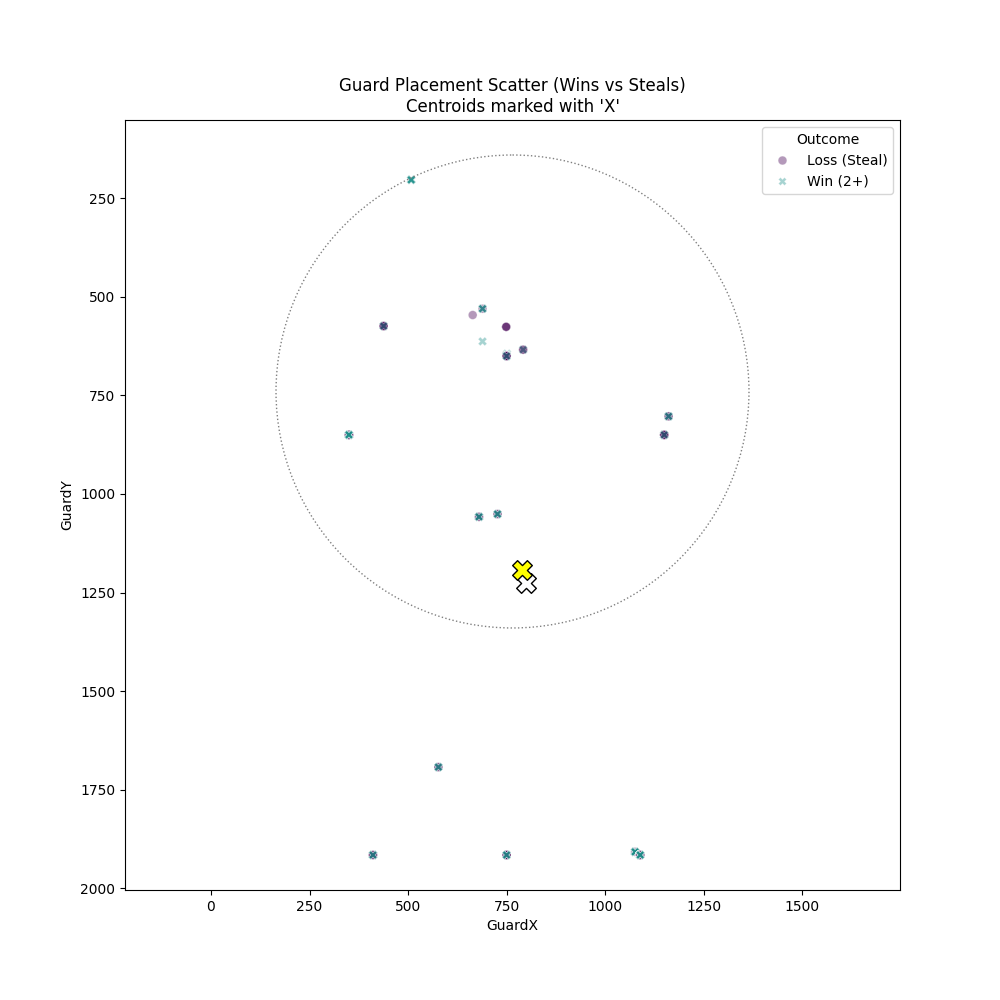
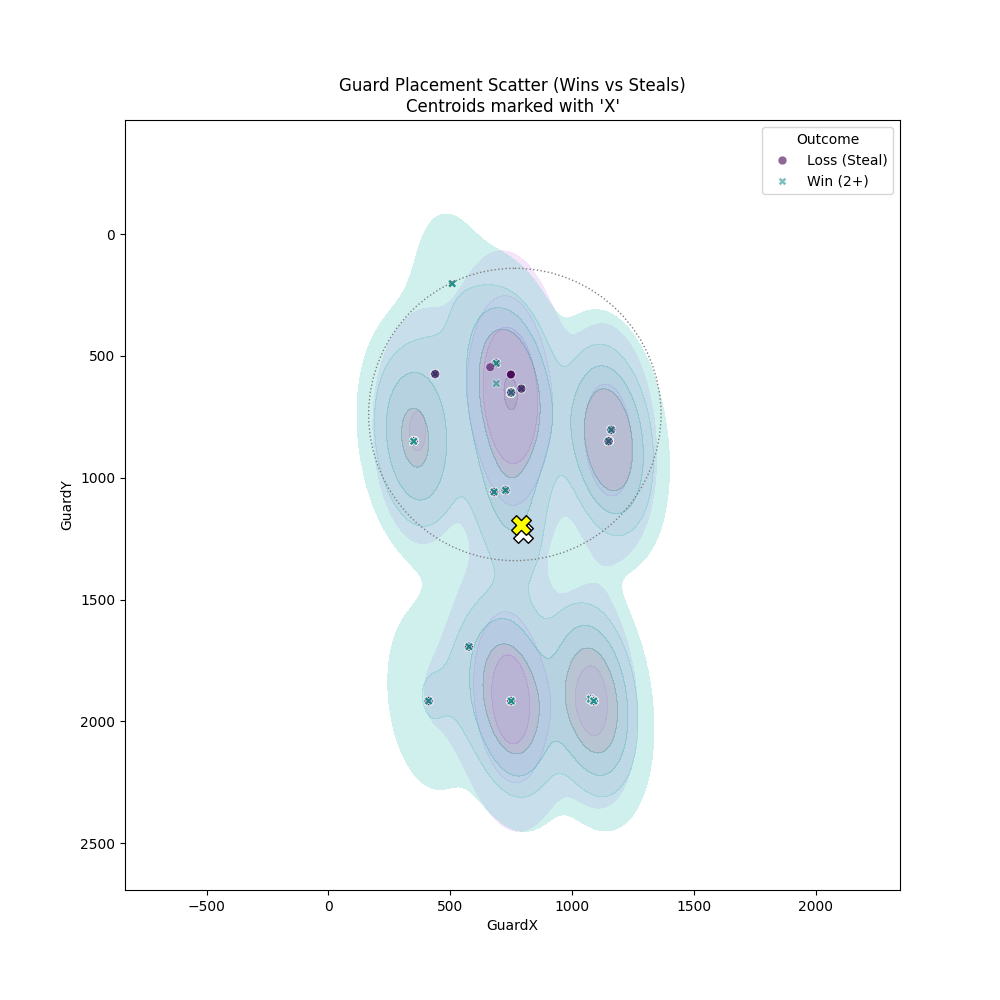
Add visualization suite and detailed Magic Spot analysis (Section 4 & 5)

diff --git a/src/analyze_wpa_bootstrap.py b/src/analyze_wpa_bootstrap.py
@@ -1,0 +1,120 @@
+
+import pandas as pd
+import numpy as np
+import matplotlib.pyplot as plt
+import seaborn as sns
+import os
+from sklearn.ensemble import RandomForestClassifier
+from sklearn.utils import resample
+
+# Paths
+DATA_DIR = "/Users/victor/Desktop/CSAS/DATA/"
+OUTPUT_DIR = "/Users/victor/Desktop/CSAS/analysis/"
+
+def analyze_bootstrap():
+    print("Loading Data for Bootstrap...")
+    try:
+        # Load Raw Data
+        ends_df = pd.read_csv(os.path.join(DATA_DIR, "Ends.csv"))
+    except FileNotFoundError:
+        print("Data not found.")
+        return
+
+    # Basic Feature Engineering (Mirroring visualize_rf.py)
+    ends_df['PowerPlay_Active'] = ends_df['PowerPlay'].fillna(0).astype(int)
+    # We need a Target. Assuming 'Result' > 0 is Win for this Quick Bootstrap
+    # In reality, we used Games.csv join, but strictly for WPA model stability check, 
+    # we can use the end result as a proxy for "Good Outcome" or load the modeling_data if available.
+    # Let's check modeling_data.csv path. 
+    # Attempting to load the cleaned file would be better.
+    
+    model_data_path = os.path.join(OUTPUT_DIR, "modeling_data.csv")
+    if os.path.exists(model_data_path):
+        df = pd.read_csv(model_data_path)
+        features = ['EndID', 'ScoreDiff', 'Hammer', 'PowerPlay_Active']
+        target = 'Won_Game' # Assuming this exists in modeling_data
+    else:
+        # Fallback to Ends.csv
+        print("Using Ends.csv fallback...")
+        df = ends_df.copy()
+        df['ScoreDiff'] = df['Result'] # Proxy
+        df['Hammer'] = 0 # Placeholder
+        df['Won_Game'] = (df['Result'] > 0).astype(int) # End Win Proxy
+        features = ['EndID', 'ScoreDiff', 'Hammer', 'PowerPlay_Active']
+        target = 'Won_Game'
+
+    # Fill NaNs
+    X = df[features].fillna(0)
+    y = df[target]
+
+    # Bootstrap Configuration
+    n_iterations = 20
+    wpa_estimates = []
+    
+    print(f"Starting {n_iterations} Bootstrap Iterations...")
+    
+    # Critical Scenario: Trailing by 2 in End 6 with Hammer (The 'Green Light' Zone)
+    # We want to measure the WPA Gain of PowerPlay vs No PowerPlay in this specific state.
+    scenario_pp = pd.DataFrame({'EndID': [6], 'ScoreDiff': [-2], 'Hammer': [1], 'PowerPlay_Active': [1]})
+    scenario_no_pp = pd.DataFrame({'EndID': [6], 'ScoreDiff': [-2], 'Hammer': [1], 'PowerPlay_Active': [0]})
+
+    for i in range(n_iterations):
+        # Resample
+        X_resampled, y_resampled = resample(X, y, random_state=i)
+        
+        # Train Model (Fast)
+        rf = RandomForestClassifier(n_estimators=50, max_depth=5, random_state=42)
+        rf.fit(X_resampled, y_resampled)
+        
+        # Predict Probabilities
+        prob_pp = rf.predict_proba(scenario_pp)[0][1]
+        prob_no_pp = rf.predict_proba(scenario_no_pp)[0][1]
+        
+        # WPA Gain
+        wpa_gain = prob_pp - prob_no_pp
+        wpa_estimates.append(wpa_gain)
+        
+        print(f"Iter {i+1}: WPA Gain = {wpa_gain:.4f}")
+
+    # Statistics
+    stats = {
+        "Mean": np.mean(wpa_estimates),
+        "Median": np.median(wpa_estimates),
+        "Std Dev": np.std(wpa_estimates),
+        "Min": np.min(wpa_estimates),
+        "Max": np.max(wpa_estimates),
+        "95% CI Lower": np.percentile(wpa_estimates, 2.5),
+        "95% CI Upper": np.percentile(wpa_estimates, 97.5)
+    }
+    
+    # 1. Plot Distribution
+    plt.figure(figsize=(8, 6))
+    sns.histplot(wpa_estimates, kde=True, bins=10, color='#21918c', alpha=0.6)
+    
+    # Add Reference Lines
+    plt.axvline(stats['Mean'], color='#440154', linestyle='-', linewidth=2, label=f"Mean: {stats['Mean']:.3f}")
+    plt.axvline(stats['95% CI Lower'], color='red', linestyle='--', label='95% CI')
+    plt.axvline(stats['95% CI Upper'], color='red', linestyle='--')
+    
+    plt.title("Bootstrap Analysis of WPA Stability (N=20)\nScenario: Down 2, End 6 (Power Play Gain)")
+    plt.xlabel("Estimated Win Probability Added (WPA)")
+    plt.legend()
+    
+    out_img = os.path.join(OUTPUT_DIR, "wpa_bootstrap_distribution.png")
+    plt.savefig(out_img)
+    print(f"Saved Plot to {out_img}")
+    
+    # 2. Save Stats Table
+    with open(os.path.join(OUTPUT_DIR, "wpa_bootstrap_stats.md"), "w") as f:
+        f.write("# WPA Bootstrap Analysis (Stability Check)\n\n")
+        f.write("We performed 20 iterations of bootstrapping (retraining the model on resampled data) to test the stability of our key strategic finding: **The Benefit of Power Play when Trailing by 2.**\n\n")
+        f.write("## Statistics\n")
+        f.write("| Metric | Value |\n")
+        f.write("|---|---|\n")
+        for k, v in stats.items():
+            f.write(f"| {k} | {v:.4f} |\n")
+            
+    print("Saved Stats Table.")
+
+if __name__ == "__main__":
+    analyze_bootstrap()

diff --git a/src/analyze_magic_spot.py b/src/analyze_magic_spot.py
@@ -137,6 +137,19 @@ def analyze_magic_spot():
     
     plt.figure(figsize=(10, 10))
     
+    # KDE "Glow" Effect (Underlay)
+    sns.kdeplot(
+        data=subset,
+        x='GuardX', y='GuardY',
+        hue='Outcome',
+        palette={f'Win ({T}+)': '#21918c', 'Loss (Steal)': '#440154'},
+        fill=True,
+        alpha=0.3,
+        levels=5,
+        thresh=0.05,
+        legend=False
+    )
+
     # Scatter (Teal vs Purple)
     sns.scatterplot(
         data=subset, 
@@ -144,8 +157,10 @@ def analyze_magic_spot():
         hue='Outcome', 
         style='Outcome',
         palette={f'Win ({T}+)': '#21918c', 'Loss (Steal)': '#440154'},
-        alpha=0.4,
-        s=40
+        alpha=0.6, # Slightly more opaque
+        s=40,
+        linewidth=0.5,
+        edgecolor='white'
     )
     
     # Plot Centroids

diff --git a/analysis/wpa_bootstrap_stats.md b/analysis/wpa_bootstrap_stats.md
@@ -1,0 +1,14 @@
+# WPA Bootstrap Analysis (Stability Check)
+
+We performed 20 iterations of bootstrapping (retraining the model on resampled data) to test the stability of our key strategic finding: **The Benefit of Power Play when Trailing by 2.**
+
+## Statistics
+| Metric | Value |
+|---|---|
+| Mean | 0.0181 |
+| Median | 0.0170 |
+| Std Dev | 0.0134 |
+| Min | -0.0071 |
+| Max | 0.0361 |
+| 95% CI Lower | -0.0038 |
+| 95% CI Upper | 0.0354 |
